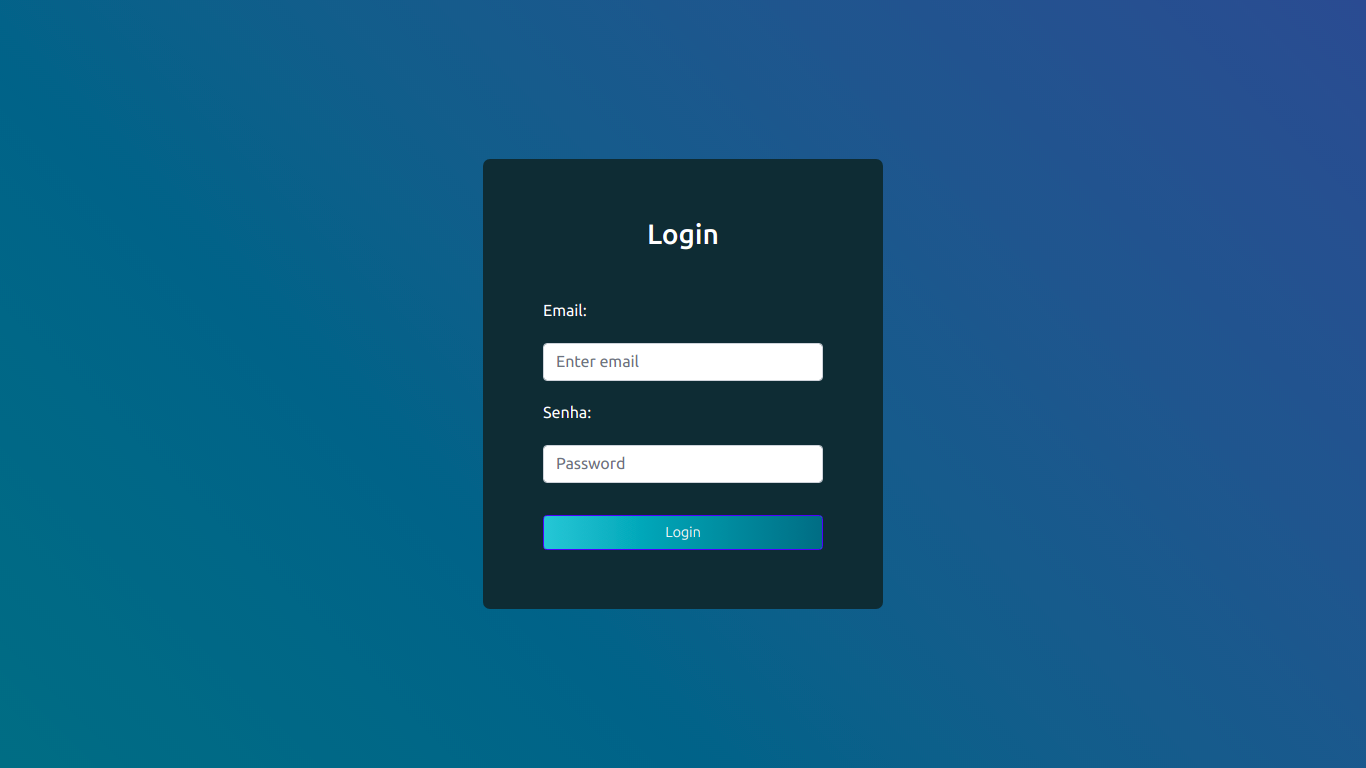
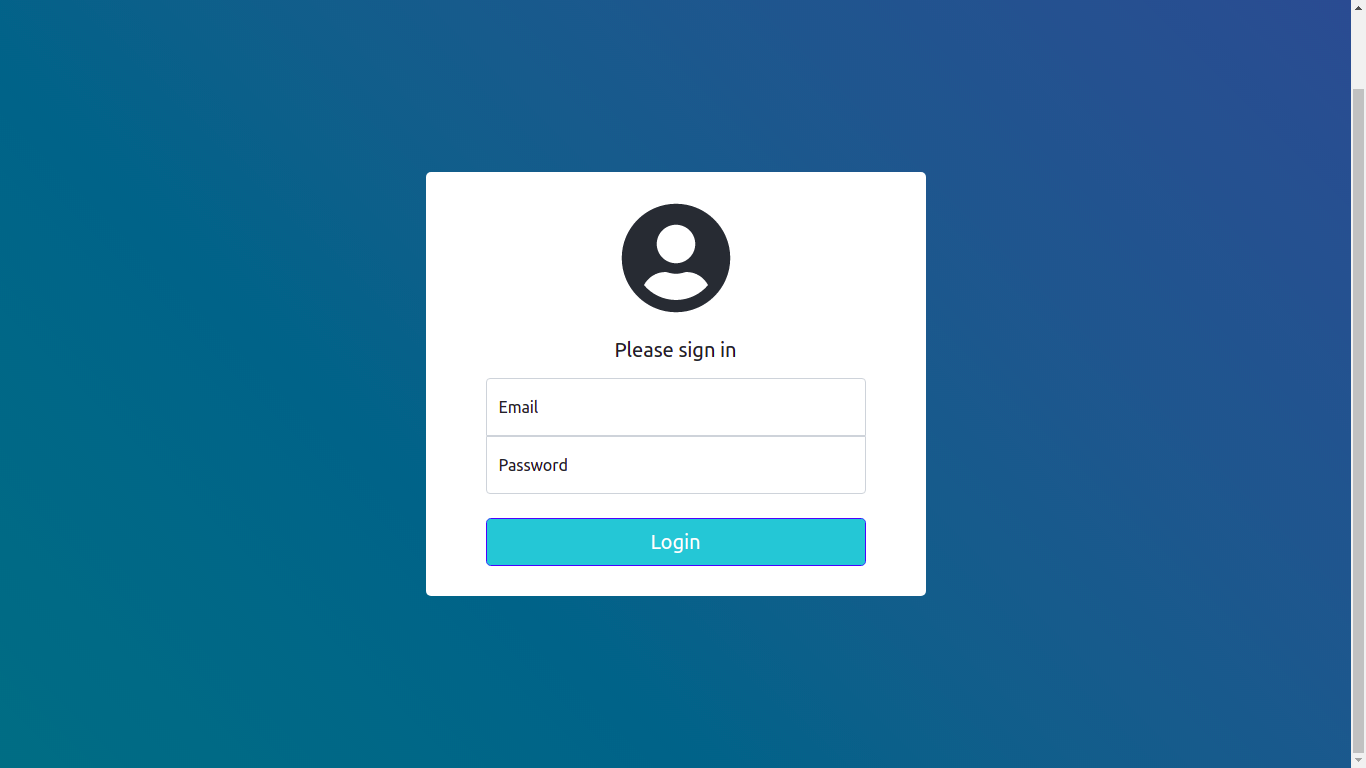
Update/login page (#8)
* Updated login layout

* Added global style and color palette

* update readme

* update readme

Changed region(s): [[0.3075, 0.1875, 0.6764, 0.8125], [0.9839, 0.0, 1.0, 1.0]]

diff --git a/src/components/auth/Login.vue b/src/components/auth/Login.vue
@@ -1,24 +1,24 @@
 <template>
-    <div class="main">
+    <div class="main text-center">
         <div class="login">
-            <div class="content-login">
-                <header>
-                    <h1> Login </h1>
-                </header>
-                <div class="form">
-                    <form>
-                        <div class="form-group">
-                            <label for="exampleInputEmail1">Email:</label>
-                            <input type="email" class="form-control" id="exampleInputEmail1" aria-describedby="emailHelp" placeholder="Enter email">
-                        </div>
-                        <div class="form-group">
-                            <label for="exampleInputPassword1">Senha:</label>
-                            <input type="password" class="form-control" id="exampleInputPassword1" placeholder="Password">
-                        </div>
-                        <button type="submit" class="btn btn-primary" @click.prevent="login">Login</button>
-                    </form>
+            <form>
+                <i class="mb-4 mr-2 fas fa-user-circle fa-7x profile-icon"></i>
+
+                <h5 class="mb-3 fw-normal">Please sign in</h5>
+
+                <div class="w-100 form-floating">
+                    <input type="email" class="form-control" id="floatingInput" placeholder="Enter email">
+                    <label for="floatingInput">Email</label>
                 </div>
-            </div>
+                <div class="form-floating">
+                    <input type="password" class="form-control" id="floatingPassword" placeholder="Password">
+                    <label for="floatingPassword">Password</label>
+                </div>
+                
+                <br>
+
+                <button type="submit" class="w-100 btn btn-lg btn-outline-primary custom-button" @click.prevent="login">Login</button>
+            </form>
         </div> 
     </div>
 </template>
@@ -39,66 +39,40 @@
     }
 </script>
 
-<style lang="scss" scoped>
-.main {
-    display: flex;
-    height: 100vh;
-     background-image: linear-gradient(45deg, #126e82, #245B90);
-    /* font-family: 'Roboto', 'sams-serif'; */
-}
-.login{
-    display: flex;
-    width: 100%;
-    justify-content: center;
-    align-items: center;
+<style scoped>
 
-    .content-login {
-        width: 400px;
-        height: 450px;
-        background-color: #132c33;
-        border-radius: 7px;
+    .main {
         display: flex;
-        flex-direction: column;
-        justify-content: center;
-        align-items: center;
-
-        header {
-            width: 100%;
-            display: flex;
-            justify-content: center;
-            
-            h1 {
-                color: white;
-                font-size: 28px;
-            }
-        }
-        .form {
-            width: 70%;
-            margin-top: 20px;
-
-            label {
-                margin-top: 20px;
-                color: white;
-            }
-            input {
-                margin-top: 20px;
-            }
-            button {
-                margin-top: 2rem;
-                padding: 0.4rem;
-                width: 100%;
-                background: linear-gradient(to left, #126e82, #51c4d3);
-                cursor: pointer;
-                color: white;
-                font-size: 0.9rem;
-                font-weight: 300;
-                border-radius: 4px;
-                transition: all 0.3s ease;
-            }
-       
-
-
-        }
+        height: 100vh;
+        background-image: linear-gradient(45deg, #126e82, #245B90);
+        /* font-family: 'Roboto', 'sams-serif'; */
     }
-}
+
+    .login{
+        width: 100%;
+        max-width: 500px;
+        margin: auto;
+        padding: 30px 60px;
+        background: var(--color-text-light);
+        border-radius: 5px;
+    }
+
+    .profile-icon {
+        color: var(--color-background-home);
+    }
+
+    #floatingInput {
+        border-bottom-right-radius: 0;
+        border-bottom-left-radius: 0;
+    }
+
+    #floatingPassword {
+        border-top-left-radius: 0;
+        border-top-right-radius: 0;
+    }
+
+    .custom-button {
+        background-color: var(--color-button);
+        color: var(--color-text-light);
+    }
 </style>

diff --git a/src/components/Header.vue b/src/components/Header.vue
@@ -3,7 +3,7 @@
 
         <nav class="navbar navbar-expand navbar-light mb-20">
             <div class="container-fluid">
-                <a class="display-4 text-dark text-decoration-none" href="/">GainsLoL</a>
+                <a class="display-4 text-light text-decoration-none" href="/">GainsLoL</a>
 
                 <div id="menu-login">
                 <ul class="navbar-nav me-auto">
@@ -34,9 +34,17 @@ export default {
 </script>
 
 <style scoped>
+    header {
+        background-color: var(--color-background-nav);
+    }
+
+    .navbar-light .navbar-nav .nav-link{
+        color: var(--color-text-light);
+    }
+
     #line {
         display: block;
-        border-bottom: 1.5px solid #cecece;
+        border-bottom: 1.5px solid var(--color-text);
         margin: 0 50px;
     }
 </style>

diff --git a/src/style/global.css b/src/style/global.css
@@ -1,0 +1,30 @@
+:root {
+    --color-background:#126e82;
+    --color-background-nav:#1E628C;
+    --color-background-home:#272C33;
+    --color-background-light:#EBECED;
+    --color-button: #51c4d3;
+    --color-text-light:#fff;
+    --color-text-dark:#000;
+    --color-text:#d8e3e7;
+  }
+
+html,
+body {
+    background-color: var(--color-text-dark);
+}
+
+
+* {
+    padding: 0;
+    margin: 0;
+    box-sizing: border-box;
+}
+
+ul {
+    list-style: none;
+}
+
+a {
+    text-decoration: none;
+}

diff --git a/src/App.vue b/src/App.vue
@@ -7,6 +7,8 @@
 
 <script>
 
+import './style/global.css'
+
 import Header from './components/Header'
 
 export default {
@@ -16,7 +18,3 @@ export default {
   }
 }
 </script>
-
-<style>
-
-</style>

diff --git a/README.md b/README.md
@@ -30,3 +30,4 @@ This is a simple and responsive login form <br />
 
 ### Final Result
 
+<img src="assets/login.png" alt="Web Version" />
